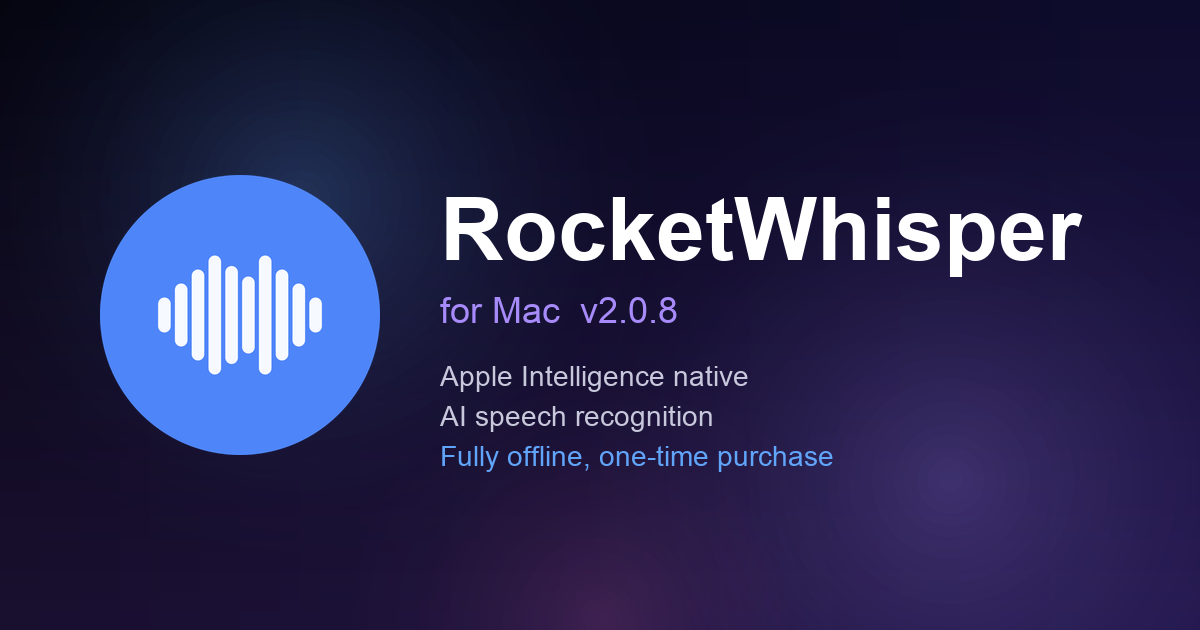
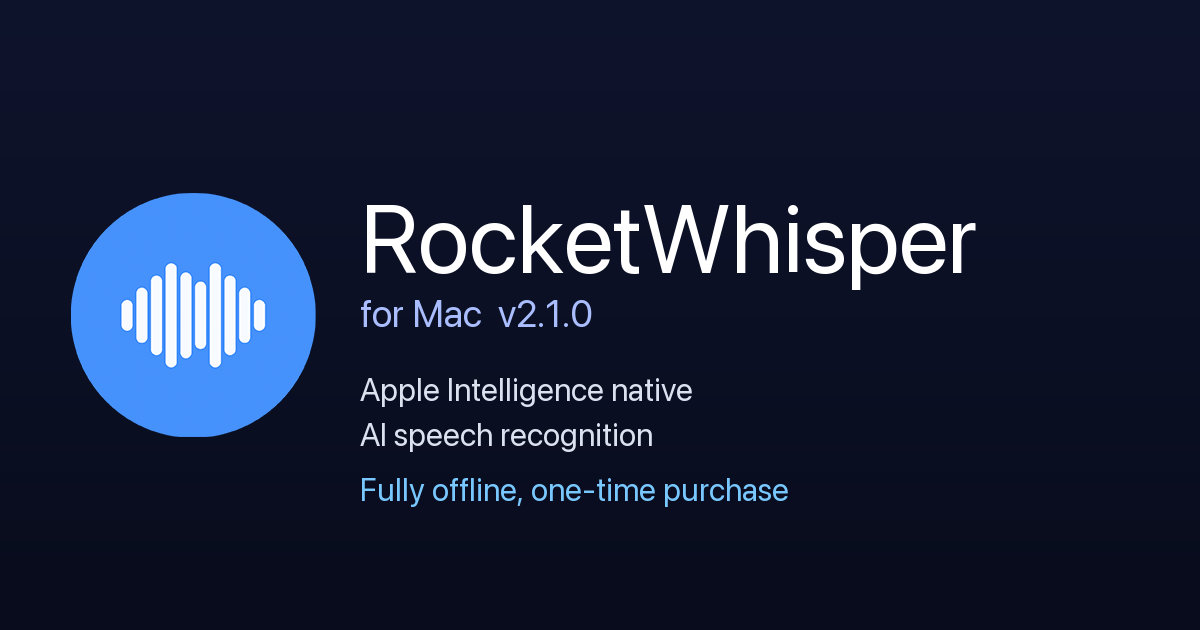
Add Product Hunt badge to hero, refresh og-image to v2.1.0
- Embed PH "Find us on Product Hunt" badge in hero section (en + ja)
  to drive notify-me followers before launch on 2026-04-25.
- Regenerate og-image.png with v2.1.0 label (was v2.0.8).
- Save make_hero.py so the hero/og image is reproducible next time.

🤖 Generated with [Claude Code](https://claude.com/claude-code)

diff --git a/ja/index.html b/ja/index.html
@@ -288,6 +288,9 @@ nav .container {
   -webkit-mask-image: radial-gradient(ellipse 70% 60% at 50% 40%, black, transparent);
 }
 .hero-content { position: relative; z-index: 1; }
+.ph-badge { margin-top: 28px; display: flex; justify-content: center; }
+.ph-badge img { transition: transform 0.2s; }
+.ph-badge a:hover img { transform: translateY(-2px); }
 
 /* ========== App Icon in Hero ========== */
 .hero-icon-wrapper {
@@ -1402,6 +1405,11 @@ footer {
       <a href="#features" class="btn-secondary">
         機能を見る
       </a>
+    </div>
+
+    <!-- Product Hunt badge -->
+    <div class="ph-badge">
+      <a href="https://www.producthunt.com/products/rocketwhisper?embed=true&amp;utm_source=badge-featured&amp;utm_medium=badge&amp;utm_campaign=badge-rocketwhisper" target="_blank" rel="noopener noreferrer"><img alt="RocketWhisper - AI voice input for Mac — Apple Intelligence, fully offline | Product Hunt" width="250" height="54" src="https://api.producthunt.com/widgets/embed-image/v1/featured.svg?post_id=1123323&amp;theme=dark&amp;t=1776154815224"></a>
     </div>
 
     <!-- Waveform animation -->

diff --git a/en/index.html b/en/index.html
@@ -288,6 +288,9 @@ nav .container {
   -webkit-mask-image: radial-gradient(ellipse 70% 60% at 50% 40%, black, transparent);
 }
 .hero-content { position: relative; z-index: 1; }
+.ph-badge { margin-top: 28px; display: flex; justify-content: center; }
+.ph-badge img { transition: transform 0.2s; }
+.ph-badge a:hover img { transform: translateY(-2px); }
 
 /* ========== App Icon in Hero ========== */
 .hero-icon-wrapper {
@@ -1402,6 +1405,11 @@ footer {
       <a href="#features" class="btn-secondary">
         View Features
       </a>
+    </div>
+
+    <!-- Product Hunt badge -->
+    <div class="ph-badge">
+      <a href="https://www.producthunt.com/products/rocketwhisper?embed=true&amp;utm_source=badge-featured&amp;utm_medium=badge&amp;utm_campaign=badge-rocketwhisper" target="_blank" rel="noopener noreferrer"><img alt="RocketWhisper - AI voice input for Mac — Apple Intelligence, fully offline | Product Hunt" width="250" height="54" src="https://api.producthunt.com/widgets/embed-image/v1/featured.svg?post_id=1123323&amp;theme=dark&amp;t=1776154815224"></a>
     </div>
 
     <!-- Waveform animation -->

diff --git a/scripts/make_hero.py b/scripts/make_hero.py
@@ -1,0 +1,75 @@
+#!/usr/bin/env python3
+"""Regenerate hero/og image with v2.1.0."""
+from PIL import Image, ImageDraw, ImageFont
+
+W, H = 1200, 630
+OUT = "/Volumes/MyData/Xcode/Projects/RocketWhisperMac/website/og-image.png"
+
+# Background gradient (dark navy → slightly lighter)
+img = Image.new("RGB", (W, H), (10, 14, 30))
+draw = ImageDraw.Draw(img)
+
+# Subtle vertical gradient
+top = (15, 20, 45)
+bot = (8, 12, 28)
+for y in range(H):
+    t = y / H
+    r = int(top[0] * (1 - t) + bot[0] * t)
+    g = int(top[1] * (1 - t) + bot[1] * t)
+    b = int(top[2] * (1 - t) + bot[2] * t)
+    draw.line([(0, y), (W, y)], fill=(r, g, b))
+
+# Blue circular icon background
+icon_cx, icon_cy, icon_r = 200, H // 2, 110
+draw.ellipse(
+    [icon_cx - icon_r, icon_cy - icon_r, icon_cx + icon_r, icon_cy + icon_r],
+    fill=(72, 122, 255),
+)
+
+# Waveform bars inside icon (5 bars)
+bar_heights = [40, 80, 120, 80, 40]
+bar_w = 14
+bar_gap = 10
+total_w = 5 * bar_w + 4 * bar_gap
+start_x = icon_cx - total_w // 2
+for i, h in enumerate(bar_heights):
+    x = start_x + i * (bar_w + bar_gap)
+    top_y = icon_cy - h // 2
+    bot_y = icon_cy + h // 2
+    draw.rounded_rectangle([x, top_y, x + bar_w, bot_y], radius=6, fill="white")
+
+# Fonts
+def load_font(size, bold=False):
+    paths = [
+        "/System/Library/Fonts/SFNS.ttf",
+        "/System/Library/Fonts/Helvetica.ttc",
+        "/Library/Fonts/Arial.ttf",
+        "/System/Library/Fonts/Supplemental/Arial.ttf",
+    ]
+    for p in paths:
+        try:
+            return ImageFont.truetype(p, size)
+        except Exception:
+            continue
+    return ImageFont.load_default()
+
+font_title = load_font(96)
+font_sub = load_font(38)
+font_body = load_font(32)
+font_accent = load_font(32)
+
+text_x = 360
+
+# "RocketWhisper" title
+draw.text((text_x, 180), "RocketWhisper", fill="white", font=font_title)
+
+# "for Mac  v2.1.0"
+draw.text((text_x, 290), "for Mac  v2.1.0", fill=(170, 190, 255), font=font_sub)
+
+# Feature bullets
+draw.text((text_x, 370), "Apple Intelligence native", fill=(220, 225, 240), font=font_body)
+draw.text((text_x, 415), "AI speech recognition", fill=(220, 225, 240), font=font_body)
+draw.text((text_x, 470), "Fully offline, one-time purchase", fill=(120, 200, 255), font=font_accent)
+
+img.save(OUT, "PNG", optimize=True)
+print(f"Wrote {OUT}")
